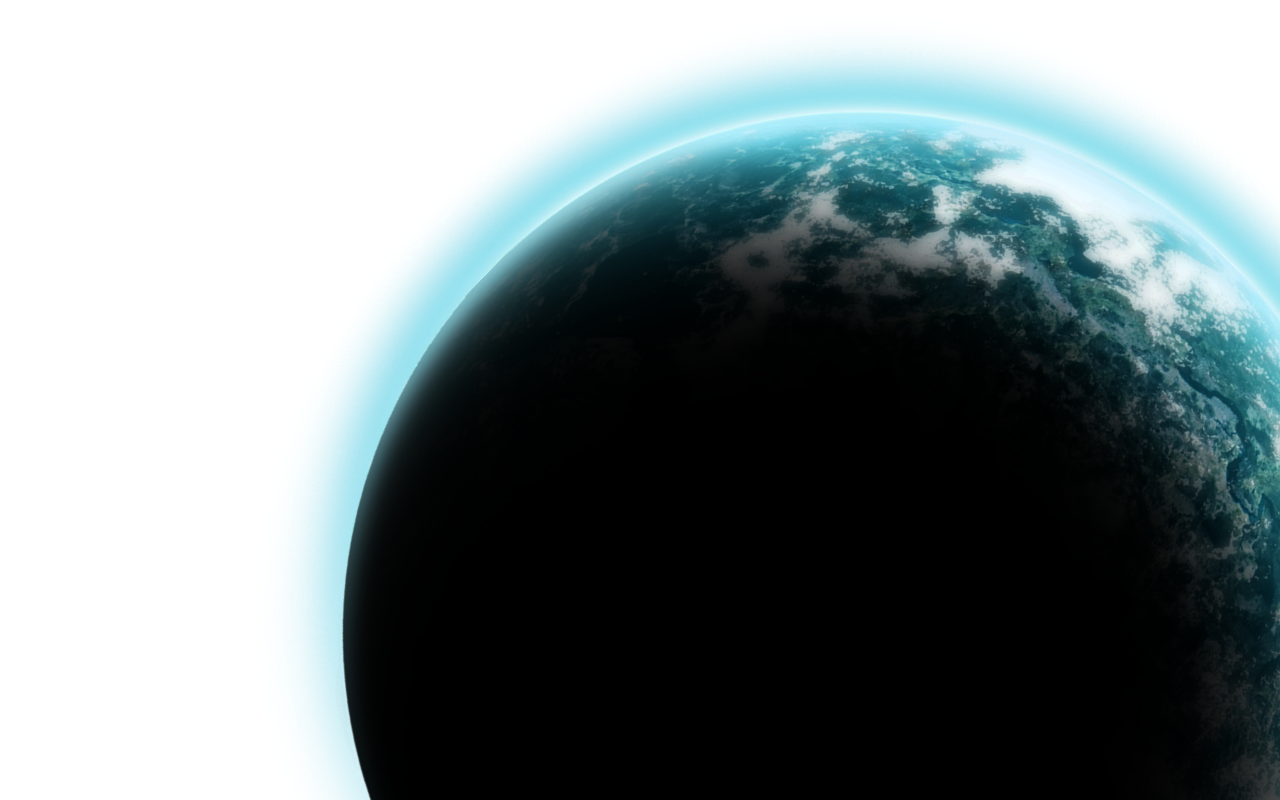
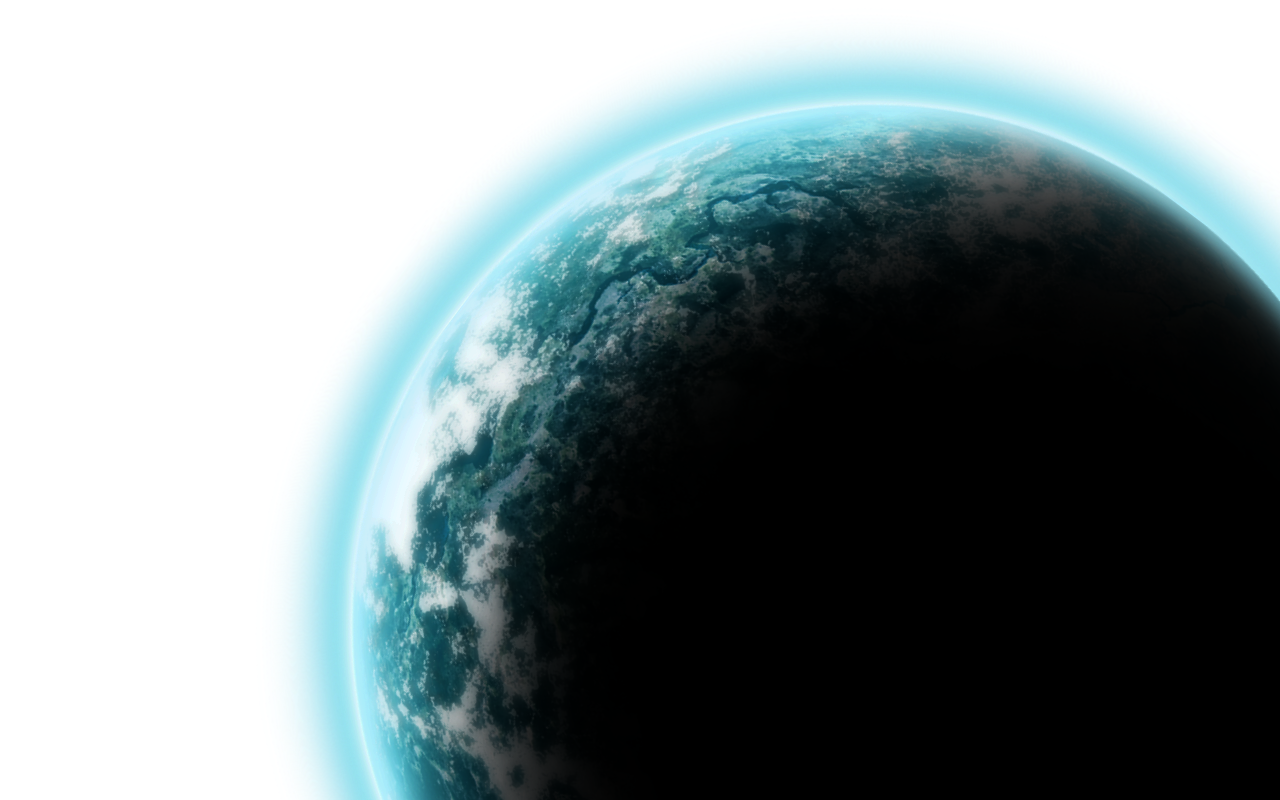
mobile compatability

Changed region(s): [[0.2188, 0.125, 1.0, 1.0]]

diff --git a/assets/script.js b/assets/script.js
@@ -5,11 +5,7 @@ const planetScale = 90;
 const background = document.querySelector('#background');
 const bgScale = 140;
 
-document.addEventListener('mousemove', e => {
-	const x = e.clientX;
-	const y = e.clientY;
-	console.log([x, y]);
-
+const parallax = (x, y) => {
 	enterprise.style.transform = `translate(${(0 - x) / entScale}px, ${
 		(0 - y) / entScale
 	}px)`;
@@ -19,4 +15,18 @@ document.addEventListener('mousemove', e => {
 	background.style.transform = `translate(${(0 - x) / bgScale}px, ${
 		(0 - y) / bgScale
 	}px)`;
+};
+
+document.addEventListener('mousemove', e => {
+	const x = e.clientX;
+	const y = e.clientY;
+
+	parallax(x, y);
+});
+
+window.addEventListener('deviceorientation', e => {
+	const a = e.alpha * 3;
+	const b = e.beta * 3;
+
+	parallax(a, b);
 });

diff --git a/assets/style.css b/assets/style.css
@@ -12,6 +12,11 @@ body {
 
 @media screen and (max-width: 1060px) {
 	.parallax img {
+		right: -20%;
+	}
+}
+@media screen and (max-width: 946px) {
+	.parallax img {
 		right: -30%;
 	}
 }
@@ -23,5 +28,8 @@ body {
 @media screen and (max-width: 600px) {
 	.parallax img {
 		right: -90%;
+	}
+	#planet_layer {
+		right: -130%;
 	}
 }
